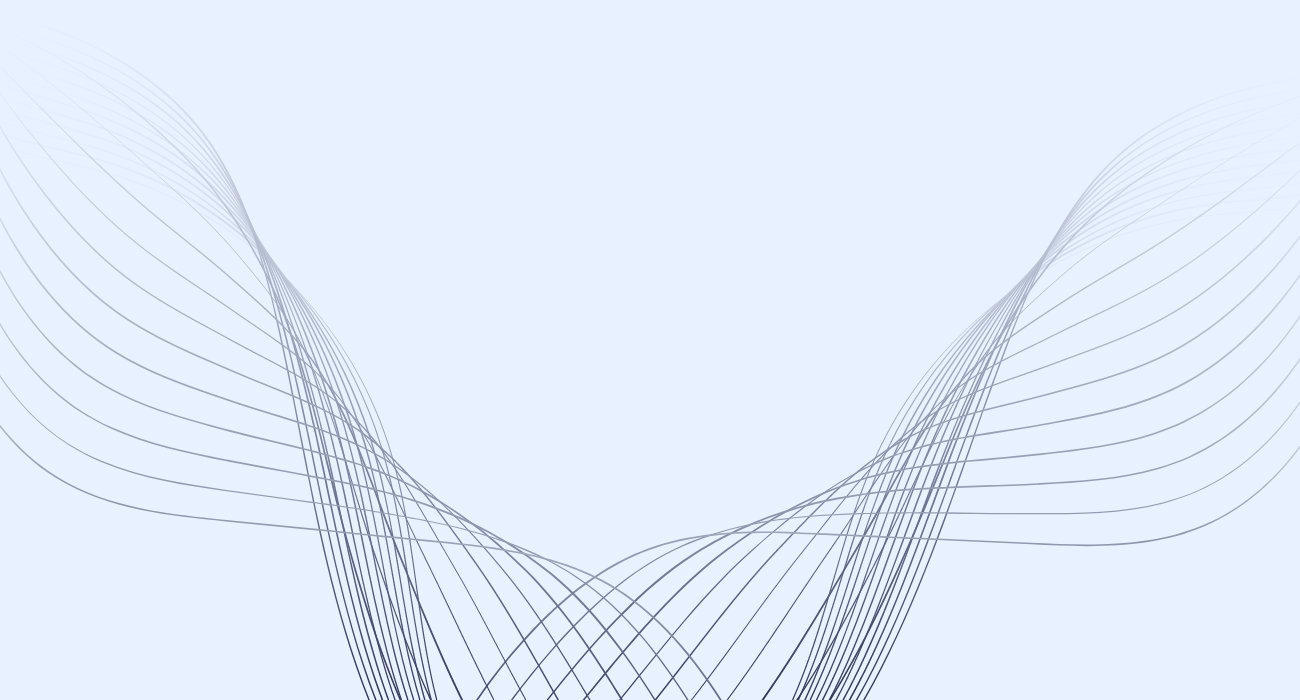
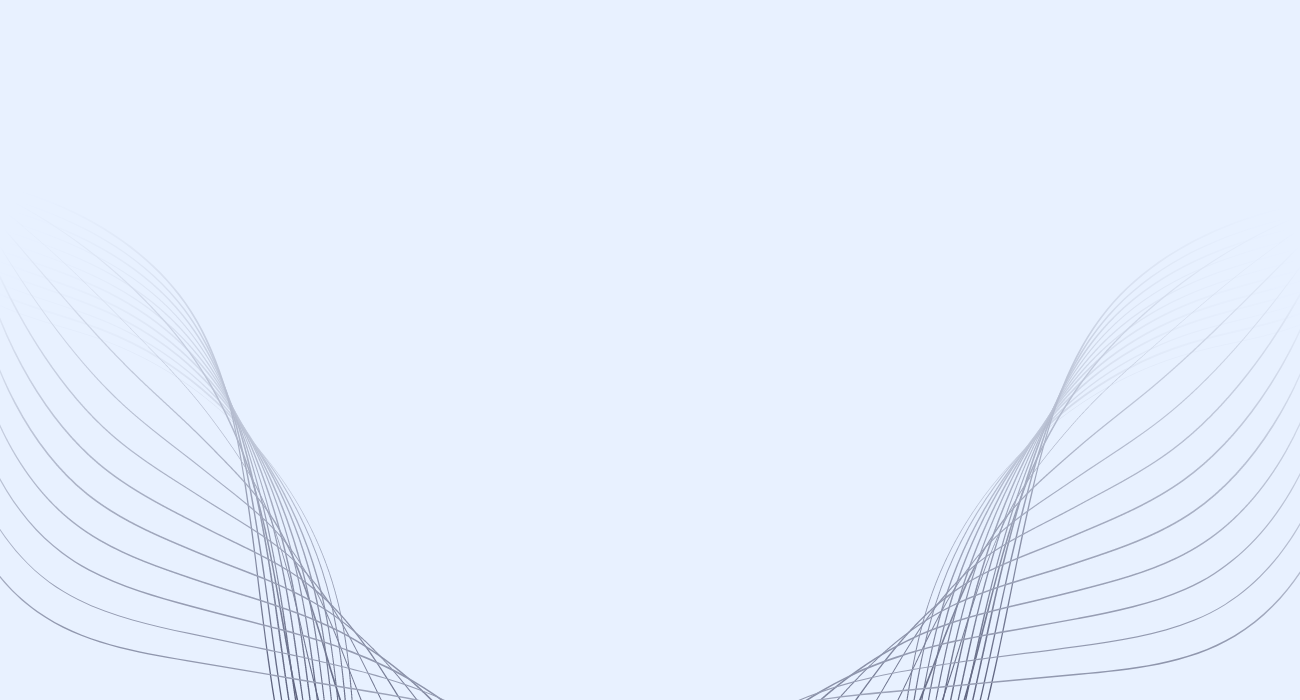
Terminando estilos de la section home

diff --git a/Frontend/src/Components/Home/Home/Home.css b/Frontend/src/Components/Home/Home/Home.css
@@ -1,6 +1,9 @@
 .ContainerHome{
-    padding: 50px 0 0 0;
-    background-color: var(--bg-color);
+    padding: 0 20px 0 20px;
+    background-size: cover;
+    background-repeat: no-repeat;
+    background-position:center right;
+    background-position-y:-250px ;
     
 }
 
@@ -8,18 +11,20 @@
     display: flex;
     flex-direction: column;
     align-items: center;
-    height: 700px;
+
+
+
 }
 
 .textContentHome h3{
     margin-bottom: 35px;
+    text-wrap:balance;
 }
 
 .HomeTextWrapper{
     display: flex;
     justify-content: center;
     text-align: center;
-    padding: 0 50px 0 50px;
 }
 
 .HomeTextWrapper h3{
@@ -67,19 +72,19 @@
 
 .imgMedHome{
     width: 100%;
+    height: 100%;
     margin-top: 61px;
-    margin-bottom: 20px;
     display: flex;
     justify-content: center;
+    align-items: end;
+
 }
 
 .imgMedHome img{
     object-fit: cover;
-    height: 580px;
+    max-height: 580px;
+    min-height: 314px;
     min-width: 50%;
     border-radius: 15px;
     border: 10px solid var(--white);
 }
-
-
-

diff --git a/Frontend/src/Components/Home/Home/Home.jsx b/Frontend/src/Components/Home/Home/Home.jsx
@@ -8,8 +8,8 @@ const Home = () => {
 
     return (
         <>
-         <section className='ContainerHome'>
-            <div className="ContentHome" style={{ backgroundImage: `url(${HomeBG})`, backgroundSize: 'cover', backgroundPosition: 'center' }}>
+         <section className='ContainerHome' style={{ backgroundImage: `url(${HomeBG})`}}>
+            <div className="ContentHome">
                 <div className="HomeTextWrapper">
                     <div className="textContentHome">
                         <h3 id='TextContent'>
@@ -30,10 +30,6 @@ const Home = () => {
                 </div>
             </div>
         </section>
-
-        
-
-        
         </>
        
     );
